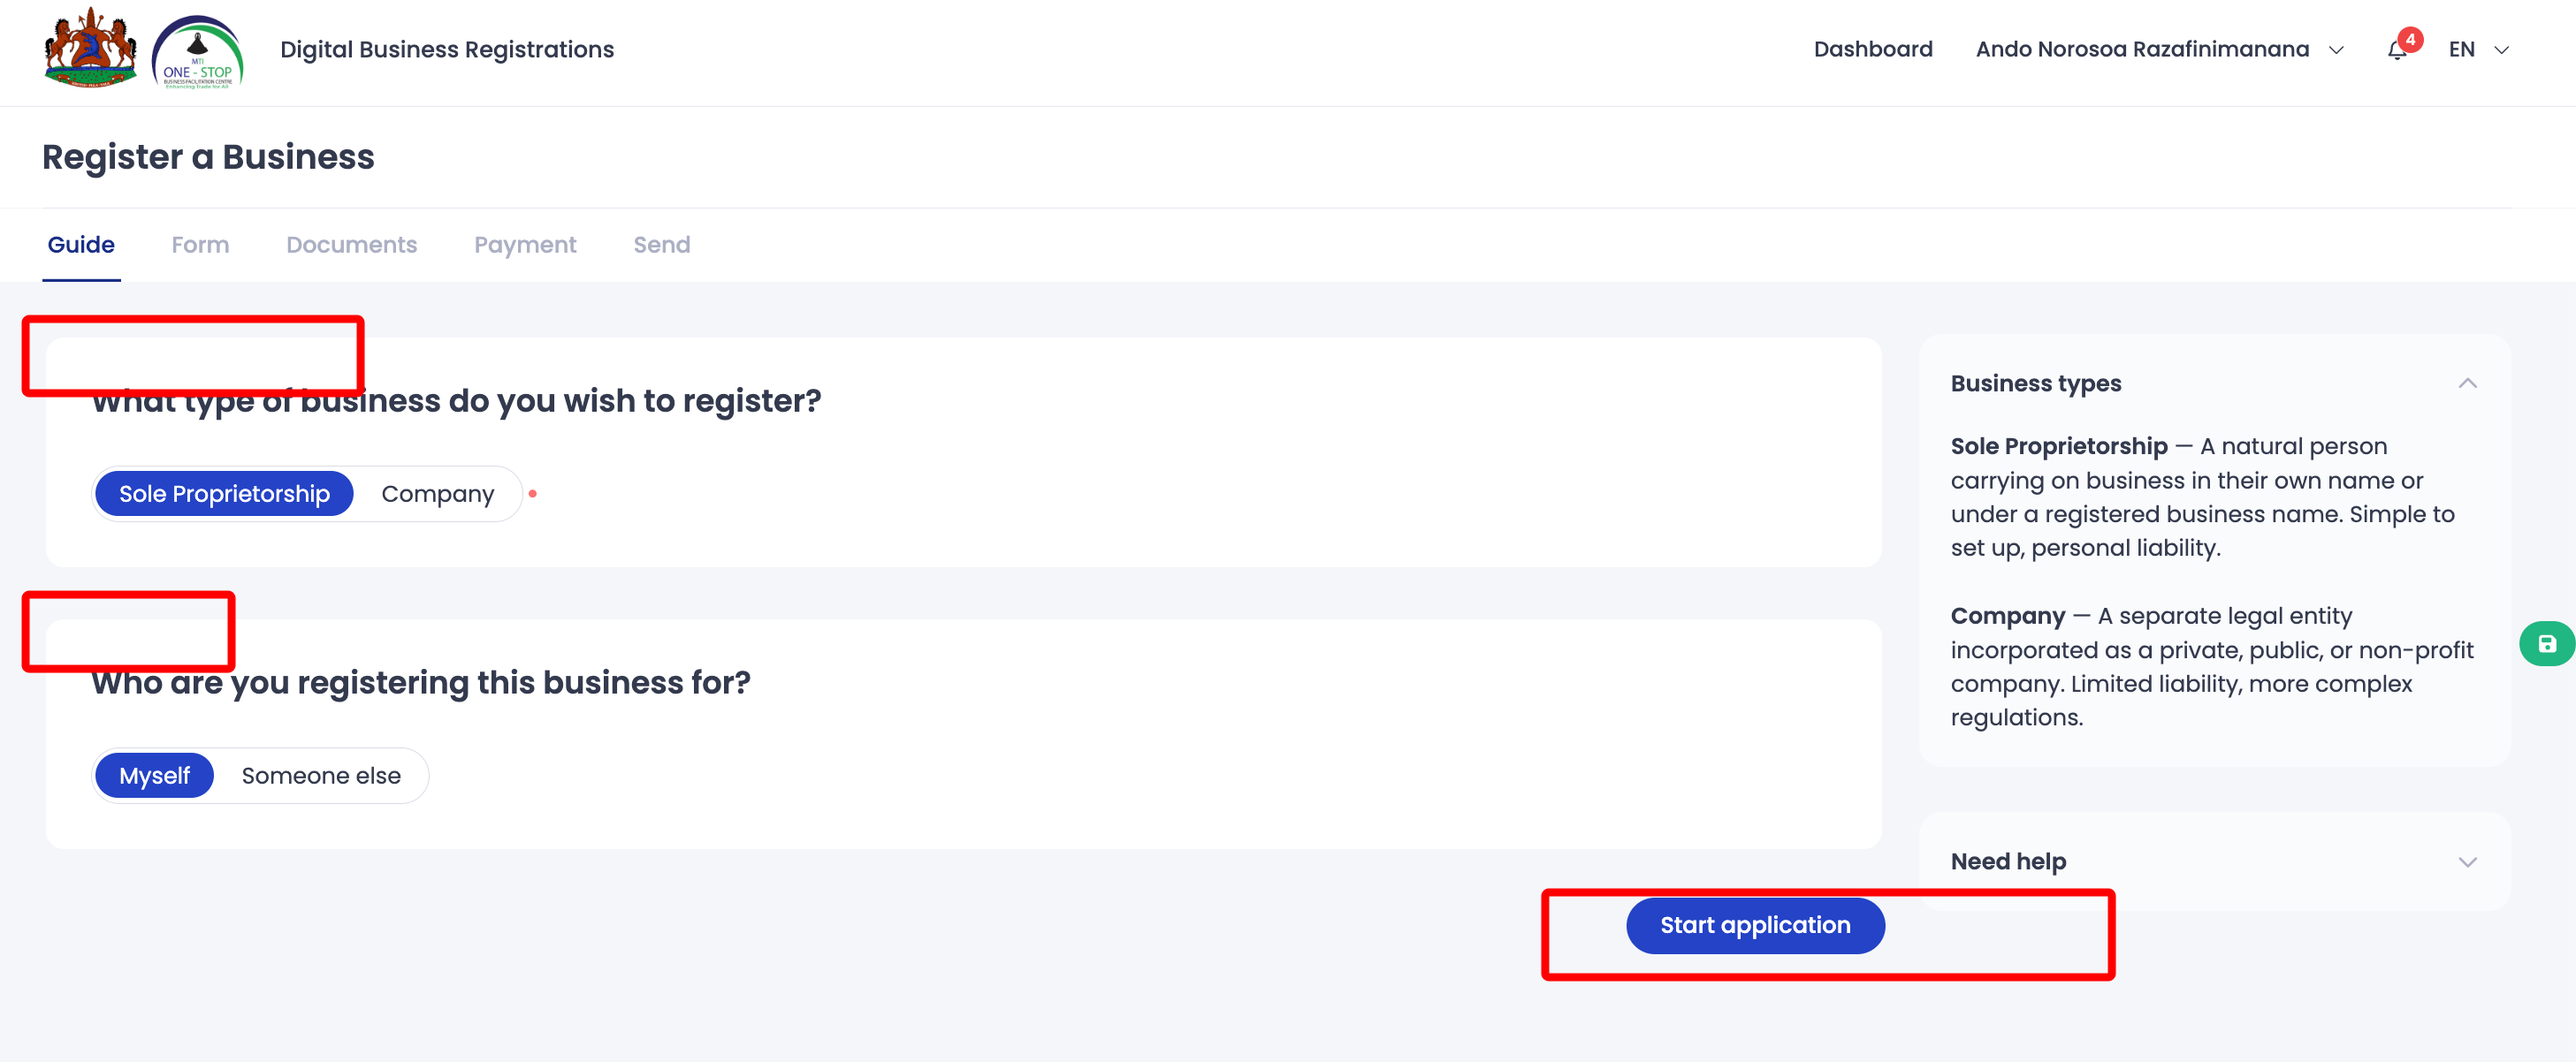
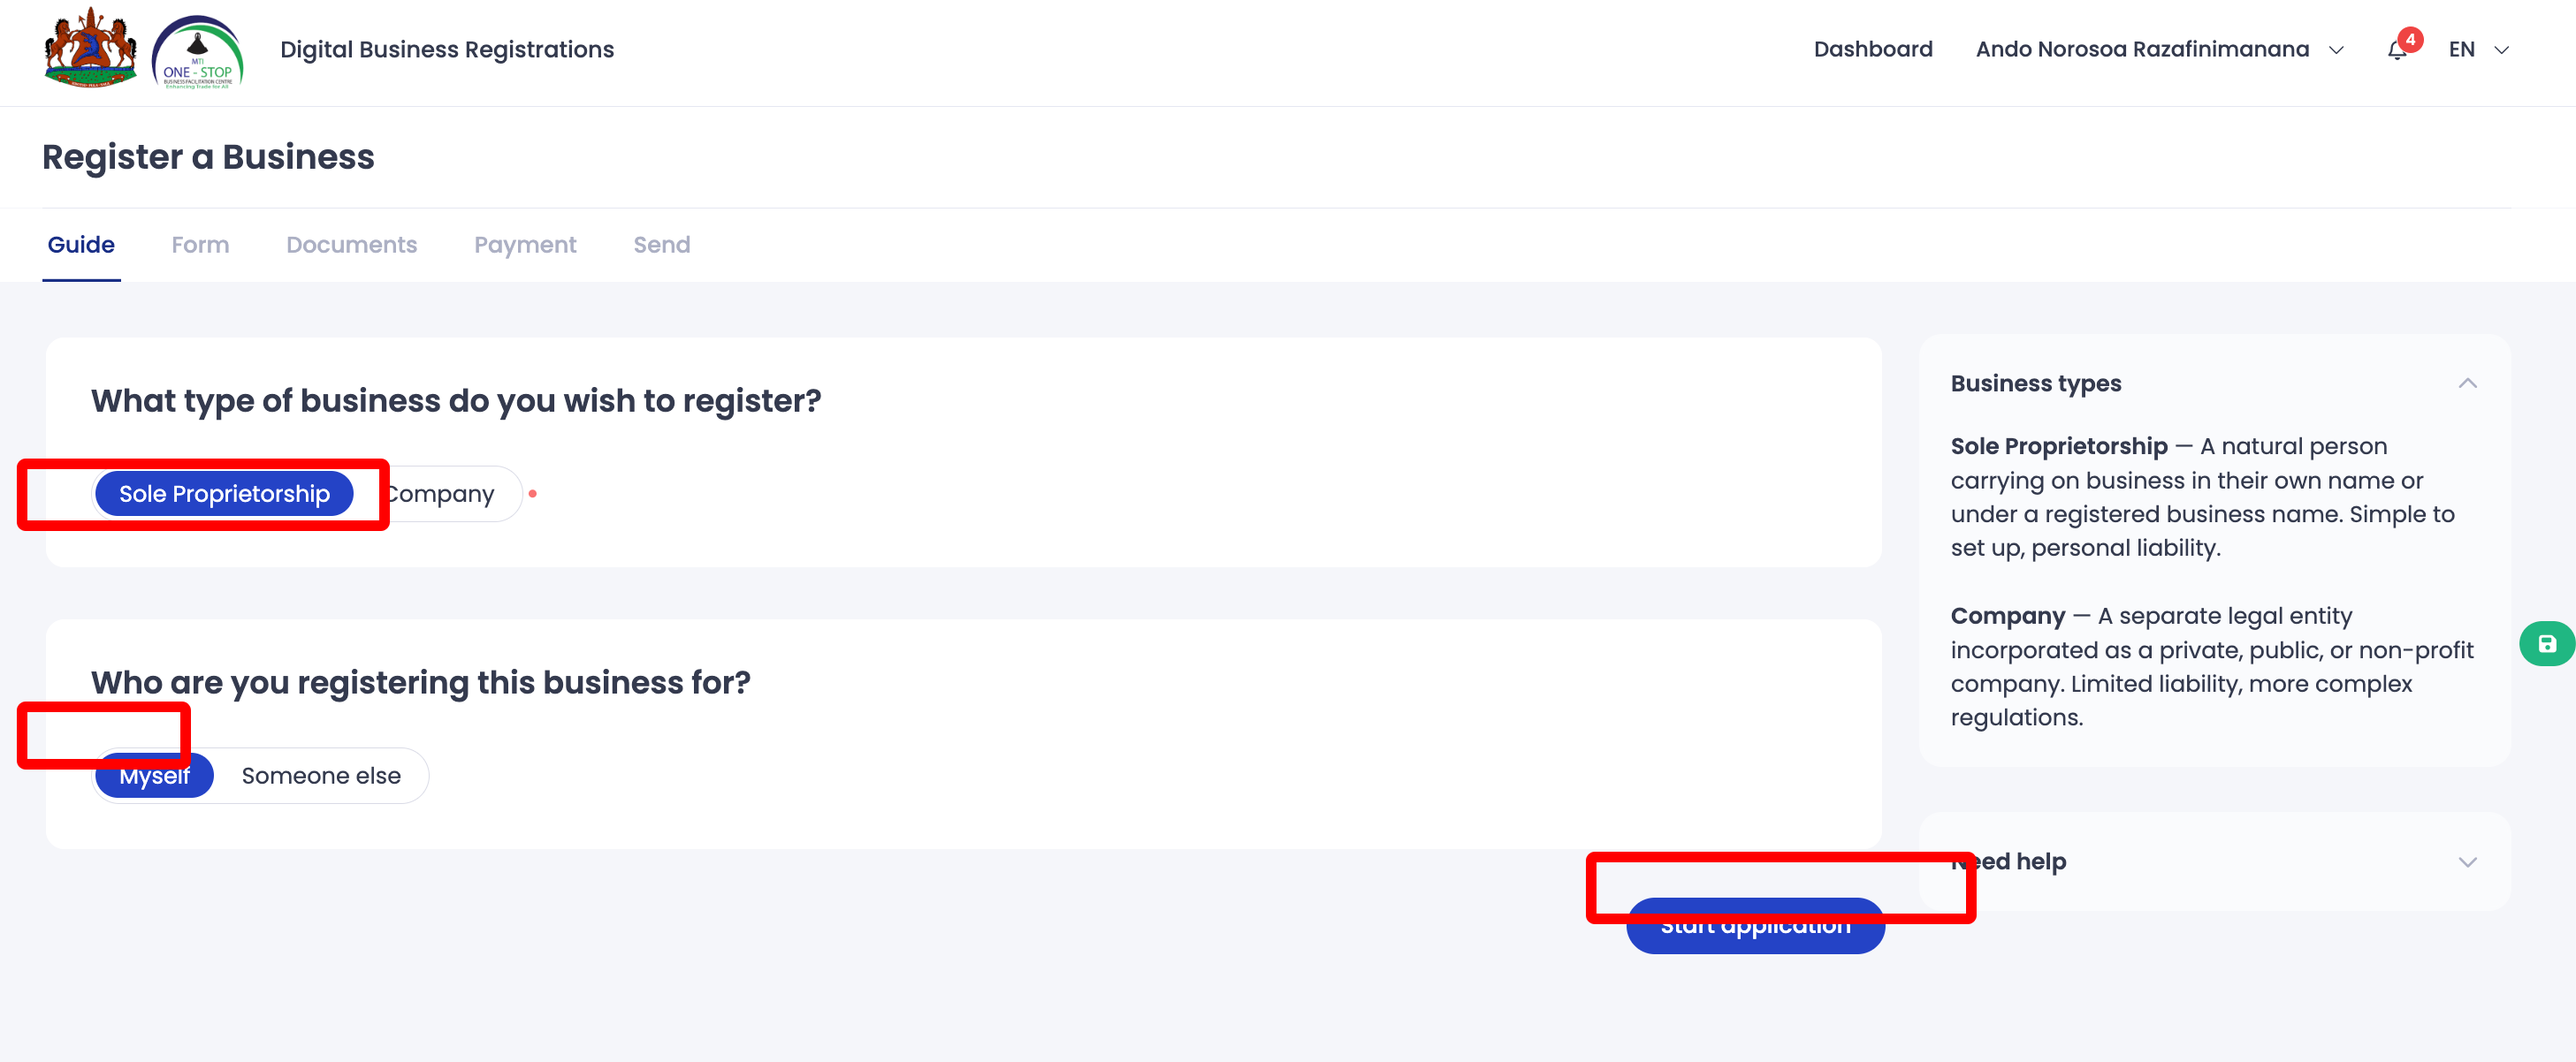
fix: re-annotate screenshots with precise pixel coordinates on actual UI elements

diff --git a/annotate.js b/annotate.js
@@ -15,17 +15,25 @@
 const sharp = require('sharp');
 const path = require('path');
 
-async function annotate(inputPath, outputPath, xPct, yPct, wPct, hPct, shape = 'rect') {
+async function annotate(inputPath, outputPath, xVal, yVal, wVal, hVal, shape = 'rect', mode = 'px') {
     const metadata = await sharp(inputPath).metadata();
     const imgW = metadata.width;
     const imgH = metadata.height;
 
-    const x = Math.round((xPct / 100) * imgW);
-    const y = Math.round((yPct / 100) * imgH);
-    const w = Math.round((wPct / 100) * imgW);
-    const h = Math.round((hPct / 100) * imgH);
+    let x, y, w, h;
+    if (mode === 'pct') {
+        x = Math.round((xVal / 100) * imgW);
+        y = Math.round((yVal / 100) * imgH);
+        w = Math.round((wVal / 100) * imgW);
+        h = Math.round((hVal / 100) * imgH);
+    } else {
+        x = Math.round(xVal);
+        y = Math.round(yVal);
+        w = Math.round(wVal);
+        h = Math.round(hVal);
+    }
 
-    const strokeWidth = Math.max(3, Math.round(imgW * 0.003));
+    const strokeWidth = Math.max(4, Math.round(imgW * 0.004));
 
     let svgOverlay;
     if (shape === 'circle') {
@@ -51,7 +59,7 @@ async function annotate(inputPath, outputPath, xPct, yPct, wPct, hPct, shape = '
 
     const fs = require('fs');
     fs.renameSync(tmpPath, outputPath);
-    console.log(`Annotated: ${path.basename(outputPath)} (${shape} at ${xPct}%,${yPct}% ${wPct}x${hPct}%)`);
+    console.log(`Annotated: ${path.basename(outputPath)} (${shape} at ${x},${y} ${w}x${h}px)`);
 }
 
 // CLI
@@ -61,5 +69,5 @@ if (args.length < 6) {
     process.exit(1);
 }
 
-annotate(args[0], args[1], +args[2], +args[3], +args[4], +args[5], args[6] || 'rect')
+annotate(args[0], args[1], +args[2], +args[3], +args[4], +args[5], args[6] || 'rect', args[7] || 'px')
     .catch(console.error);
